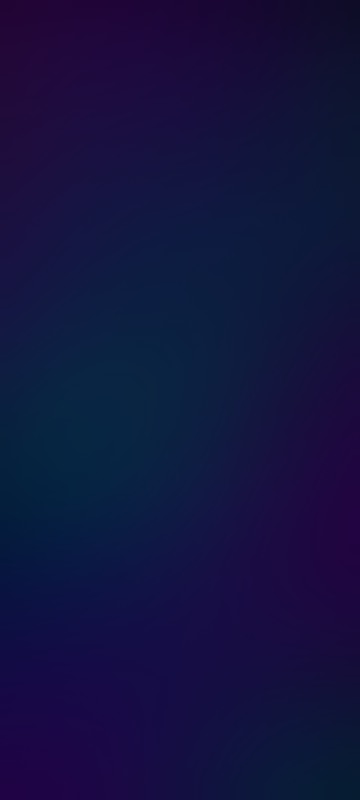
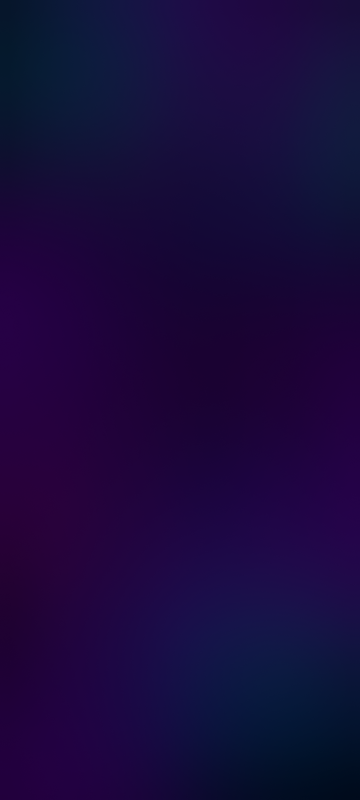
Added badge detail page

Changed region(s): [[0.0, 0.3438, 0.7028, 0.75], [0.0, 0.0, 0.1528, 0.1562]]

diff --git a/app/(tabs)/badges.jsx b/app/(tabs)/badges.jsx
@@ -6,6 +6,9 @@ import Card from "../../components/Card";
 import Button from "../../components/Button";
 import Badge from "../../components/Badge";
 
+import { router } from "expo-router";
+import Animated from "react-native-reanimated";
+
 const Badges = () => {
   return (
     <SafeAreaView edges={["top"]} className="bg-[#000000] h-full ">
@@ -17,35 +20,61 @@ const Badges = () => {
               <Text className="text-white text-2xl font-bold">Badges</Text>
             </View>
             <View className="flex flex-row flex-wrap justify-between ">
+              <Animated.View sharedTransitionTag="hatrr">
+                <Button
+                  handlePress={() => router.push("/badgedetails")}>
+                  <Badge />
+                </Button>
+              </Animated.View>
               <View>
-                <Badge />
+                <Button>
+                  <Badge />
+                </Button>
               </View>
               <View>
-                <Badge />
+                <Button>
+                  <Badge />
+                </Button>
               </View>
               <View>
-                <Badge />
+                <Button>
+                  <Badge />
+                </Button>
               </View>
               <View>
-                <Badge />
+                <Button>
+                  <Badge />
+                </Button>
               </View>
               <View>
-                <Badge />
+                <Button>
+                  <Badge />
+                </Button>
               </View>
               <View>
-                <Badge />
+                <Button>
+                  <Badge />
+                </Button>
               </View>
               <View>
-                <Badge />
+                <Button>
+                  <Badge />
+                </Button>
               </View>
               <View>
-                <Badge />
+                <Button>
+                  <Badge />
+                </Button>
               </View>
               <View>
-                <Badge />
+                <Button>
+                  <Badge />
+                </Button>
               </View>
               <View>
-                <Badge />
+                <Button>
+                  <Badge />
+                </Button>
               </View>
             </View>
           </View>

diff --git a/app/badgedetails.jsx b/app/badgedetails.jsx
@@ -1,0 +1,35 @@
+import { View, Text } from "react-native";
+import React from "react";
+import { BlurView } from "expo-blur";
+import { Pressable, ScrollView } from "react-native";
+import { router } from "expo-router";
+import Button from "../components/Button";
+import Badge from "../components/Badge";
+import Animated from "react-native-reanimated";
+
+const BadgeDetails = () => {
+  return (
+    <BlurView
+      intensity={90}
+      tint="dark"
+      experimentalBlurMethod="systemChromeMaterial"
+      // style={{ flex: 1 }}
+      //className="bg-black h-full"
+    >
+      <Pressable onPress={() => router.back()}>
+        <ScrollView className="h-full">
+          <View className="mt-20 items-center">
+            <Text className="text-white">BadgeDetails</Text>
+          </View>
+          <Animated.View className="mt-20 items-center" sharedTransitionT>
+            <Button>
+              <Badge />
+            </Button>
+          </Animated.View>
+        </ScrollView>
+      </Pressable>
+    </BlurView>
+  );
+};
+
+export default BadgeDetails;

diff --git a/components/Badge.jsx b/components/Badge.jsx
@@ -1,18 +1,14 @@
-import { View, Text,Image } from "react-native";
+import { View, Text, Image } from "react-native";
 import React from "react";
 import Button from "./Button";
 const Badge = () => {
   return (
-    <View>
-      <Button>
-        <View className="w-[45vw] h-[45vw] justify-center items-center">
-          <Image
-            source={require("../assets/images/Group 2.png")}
-            resizeMode="contain"
-            className="w-[40vw] h-[40vw]"
-          />
-        </View>
-      </Button>
+    <View className="w-[45vw] h-[45vw] justify-center items-center">
+      <Image
+        source={require("../assets/images/Group 2.png")}
+        resizeMode="contain"
+        className="w-[40vw] h-[40vw]"
+      />
     </View>
   );
 };

diff --git a/app/(onboarding)/onb6setprofilepic.jsx b/app/(onboarding)/onb6setprofilepic.jsx
@@ -18,7 +18,7 @@ import BackButton from "../../components/backbutton";
 import { useState } from "react";
 const onb6setprofilepic = () => {
   const [profile, setProfile] = useState(require("../../assets/images/9.png"));
-  const image = require("../../assets/images/Android Large - 7bg.png");
+  const image = require("../../assets/images/Rectangle 55bg.png");
   return (
     <ImageBackground
       source={image}

diff --git a/app/_layout.jsx b/app/_layout.jsx
@@ -53,6 +53,10 @@ const RootLayout = () => {
               name="profile"
               options={{ presentation: "transparentModal", animation: "fade" }}
             />
+            <Stack.Screen
+              name="badgedetails"
+              options={{ presentation: "transparentModal", animation: "fade" }}
+            />
           </Stack>
         </SafeAreaProvider>
       {/* </LayoutWrapper> */}

diff --git a/app/(onboarding)/onb8allset.jsx b/app/(onboarding)/onb8allset.jsx
@@ -6,7 +6,7 @@ import { StatusBar } from "expo-status-bar";
 import Animated, { FadeInRight } from "react-native-reanimated";
 import BackButton from "../../components/backbutton";
 const onb8allset = () => {
-  const image = require("../../assets/images/Android Large - 7bg.png");
+  const image = require("../../assets/images/Rectangle 55bg.png");
   return (
     <ImageBackground
       source={image}

diff --git a/app/(onboarding)/onb4entername.jsx b/app/(onboarding)/onb4entername.jsx
@@ -35,7 +35,7 @@ const onb4entername = () => {
     await setUserName(form.name);
     router.push("/(onboarding)/onb5setmonthlybudget");
   };
-  const image = require("../../assets/images/Android Large - 7bg.png");
+  const image = require("../../assets/images/Rectangle 55bg.png");
   return (
     <KeyboardAvoidingView
       behavior={Platform.OS === "ios" ? "padding" : "height"}

diff --git a/app/(onboarding)/onb2sortbycat.jsx b/app/(onboarding)/onb2sortbycat.jsx
@@ -12,7 +12,7 @@ import Animated, {
 import BackButton from "../../components/backbutton";
 
 const onb2sortbycat = () => {
-  const image = require("../../assets/images/Android Large - 7bg.png");
+  const image = require("../../assets/images/Rectangle 55bg.png");
 
   return (
     <ImageBackground
